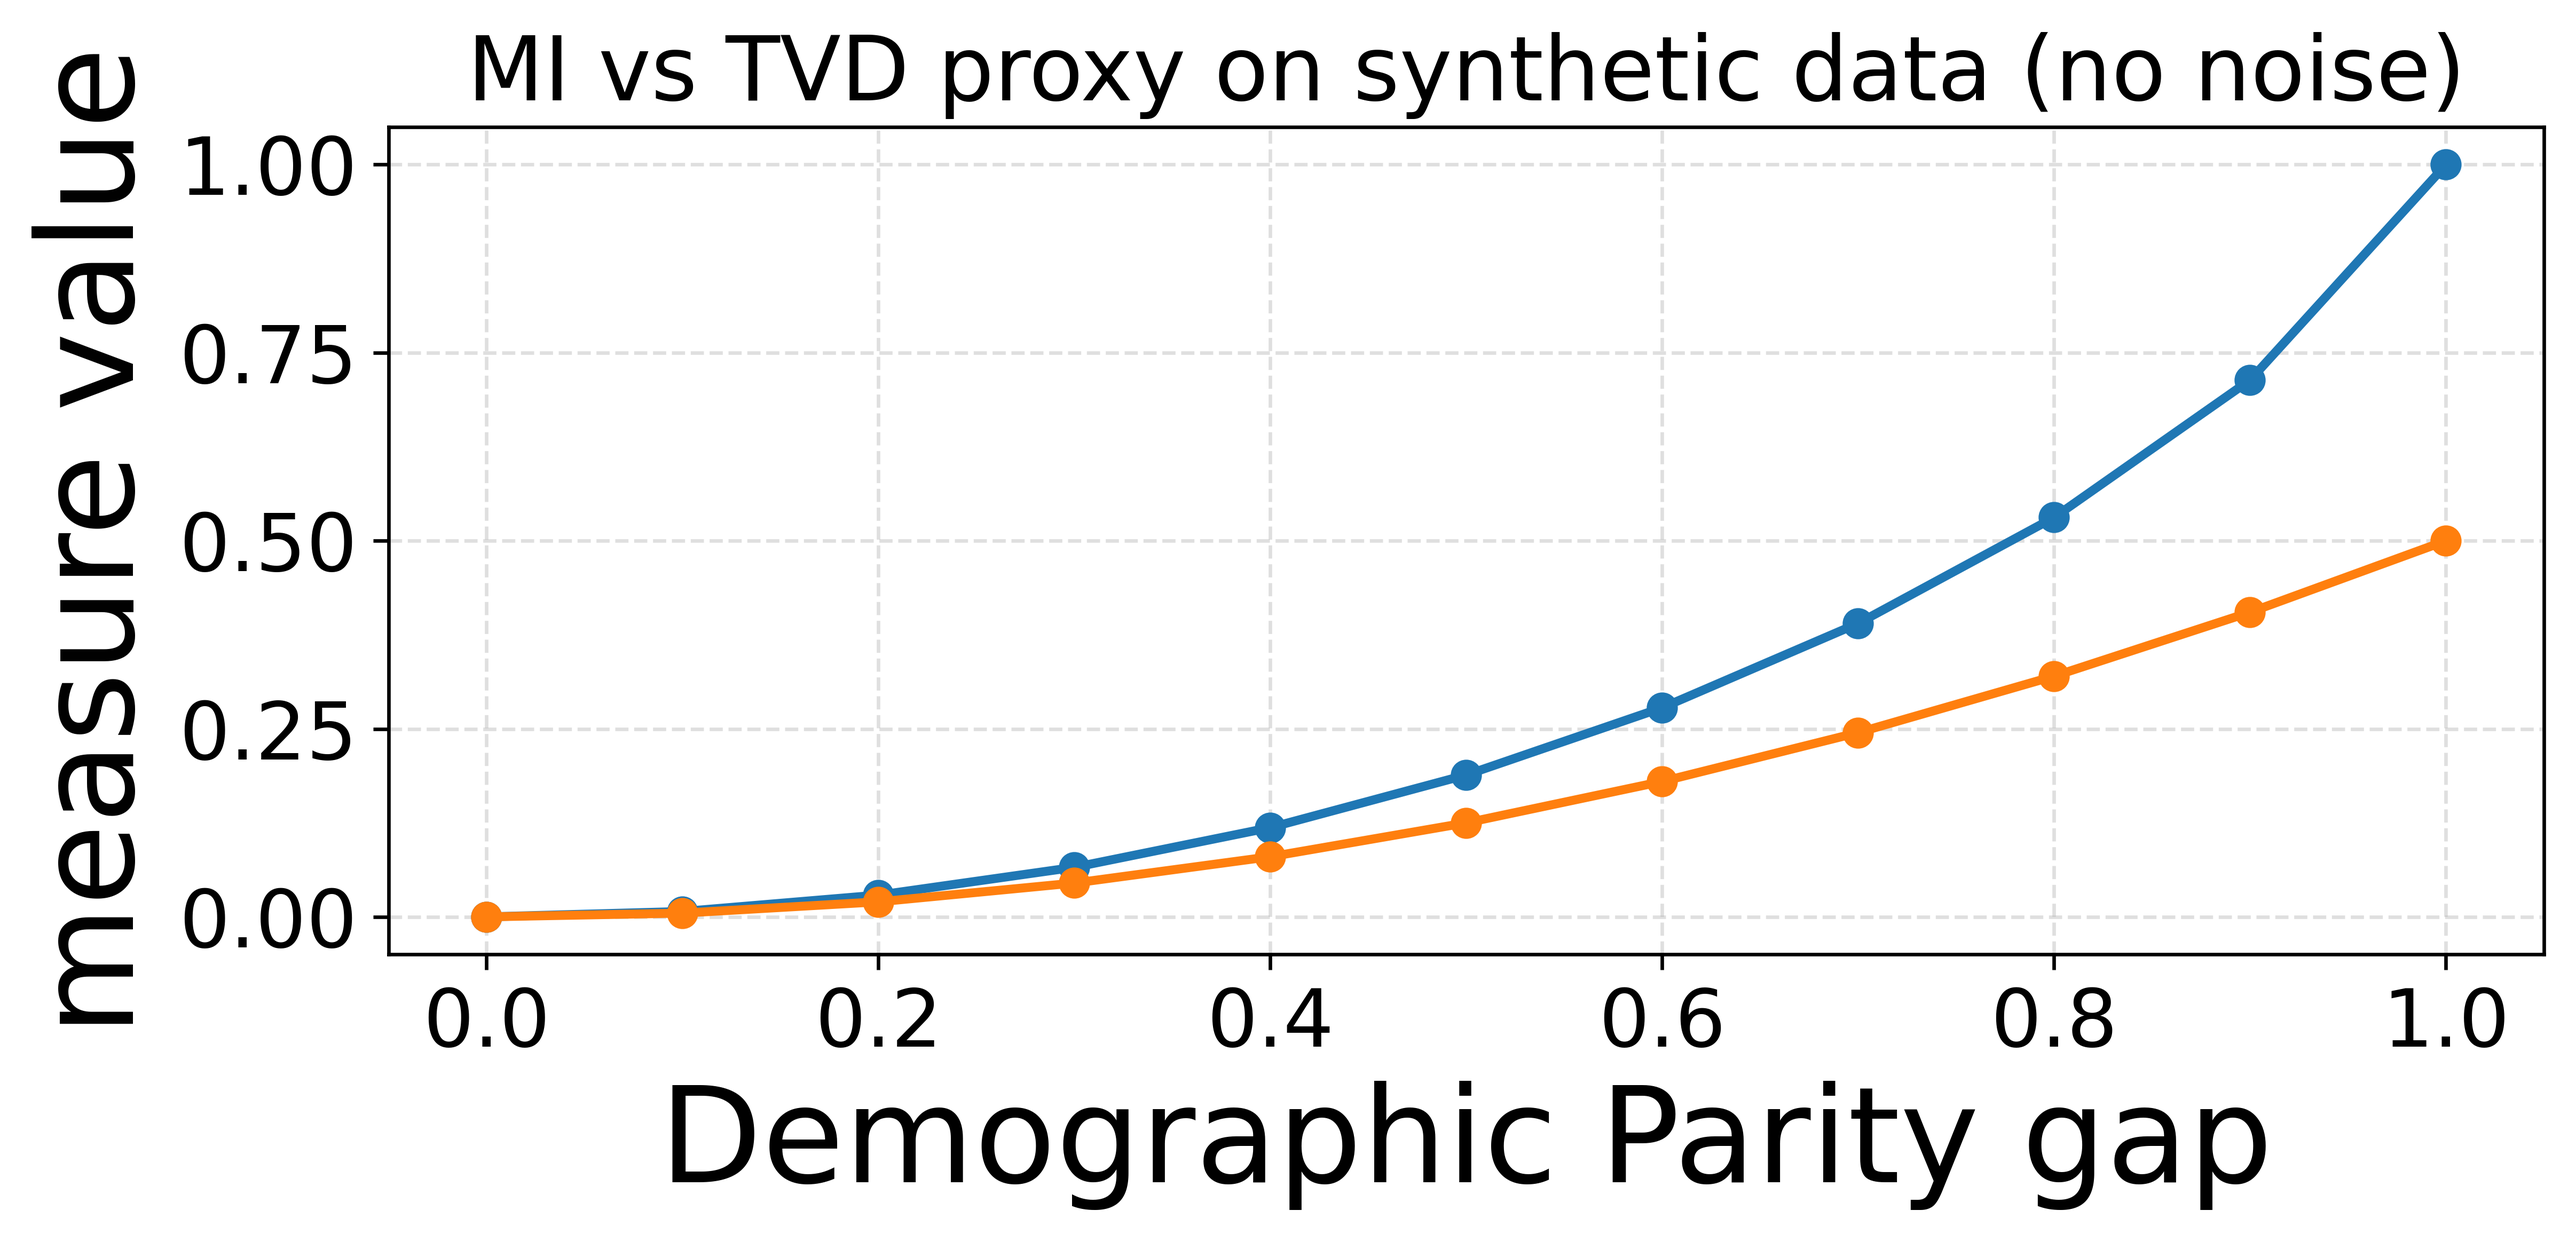
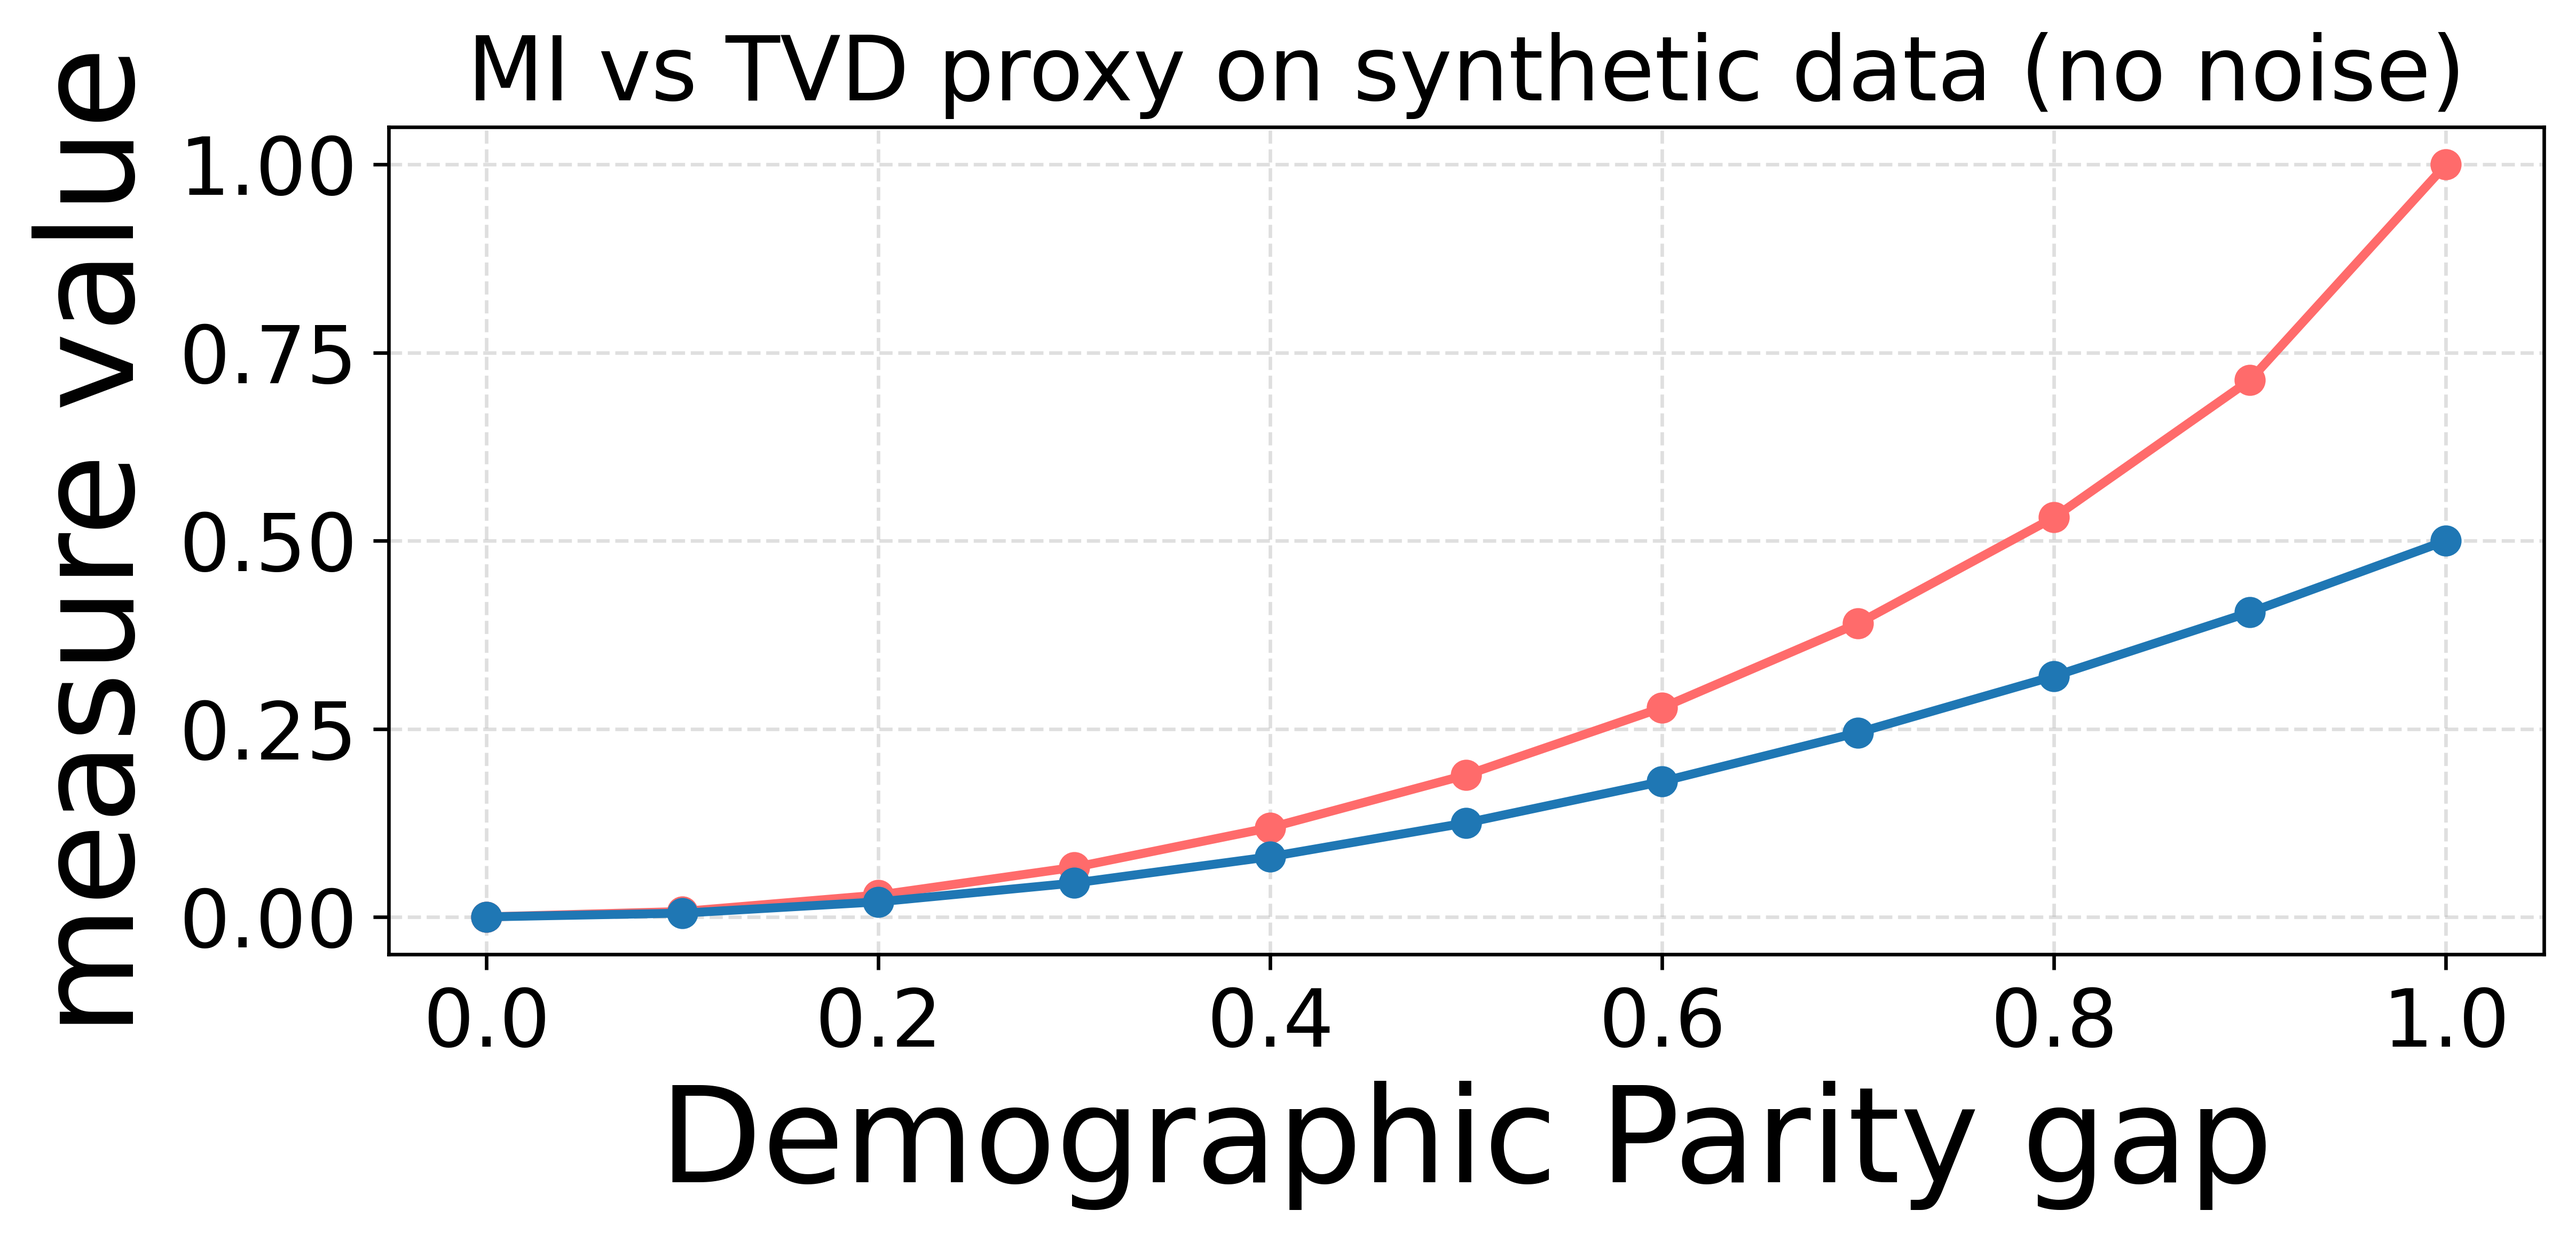
Updated plots and legends

diff --git a/main.py b/main.py
@@ -1328,8 +1328,18 @@ def create_plot_4(
 
 
 ######################################### Experiments ##########################################
+# UNCOMMENT TO RUN LEGENDS:
+
 # plt.rcParams["mathtext.fontset"] = "cm"
 # plt.rcParams["font.family"] = "serif"
+
+# measures = {
+    # r"$\mathcal{U}_{MI}$": MutualInformation,
+    # r"Algorithm 1 ($\mathcal{U}_{MI}^{TVD}$)": ProxyMutualInformationTVD,
+    # "Algorithm 2 ($\mathcal{U}_{R}^{SAT}$)": ProxyRepairMaxSat,
+    # "Algorithm 2 ($\\mathcal{U}_{R}^{SAT}$)\nwith heuristic": ProxyRepairMaxSat,
+    # r"Algorithm 3 ($\mathcal{U}_{TC}$)": TupleContribution
+# }
 
 measures = {
     "Proxy Mutual Information TVD": ProxyMutualInformationTVD,
@@ -1390,16 +1400,23 @@ def _encode_and_clean(data_path, cols):
 
 
 def plot_legend(outfile="plots/legend.png"):
-    """Creating a standalone legend figure for Experiment 1 with the four measures arranged in a single horizontal row,
-    and save it to `outfile`.
-    """
-    colors = plt.rcParams["axes.prop_cycle"].by_key()["color"]
+    """Standalone legend figure with custom colors and proper line break."""
+
+    # Explicit color mapping (MI = light red)
+    custom_colors = [
+        # "#ff6b6b",  # light red (MI)
+        "#1f77b4",  # blue
+        "#ff7f0e",  # orange
+        "#2ca02c",  # green
+    ]
+
     fig, ax = plt.subplots(figsize=(8, 1.6))
     handles = []
+
     for i, label in enumerate(measures.keys()):
         line = MplLine2D(
             [2, 3], [2, 2],
-            color=colors[i % len(colors)],
+            color=custom_colors[i % len(custom_colors)],
             marker="o",
             linestyle="-",
             linewidth=2,
@@ -1407,12 +1424,15 @@ def plot_legend(outfile="plots/legend.png"):
         )
         ax.add_line(line)
         handles.append(line)
+
     ax.set_xlim(0, 1)
     ax.set_ylim(0, 1)
     ax.set_xticks([])
     ax.set_yticks([])
+
     for spine in ax.spines.values():
         spine.set_visible(False)
+
     legend = ax.legend(
         handles,
         measures.keys(),
@@ -1423,6 +1443,7 @@ def plot_legend(outfile="plots/legend.png"):
         borderpad=0.15,
         handletextpad=0.5,
     )
+
     import matplotlib.patheffects as pe
     for text in legend.get_texts():
         text.set_path_effects([pe.withStroke(linewidth=0.2, foreground="black")])
@@ -2972,31 +2993,46 @@ def run_experiment_10(
 
     x = np.asarray(dp_stats["mean"], dtype=float)
 
-    # MI line + shadow
+    # MI line + shadow (LIGHT RED)
     mi_mean = np.asarray(mi_stats["mean"], dtype=float)
-    mi_min  = np.asarray(mi_stats["min"], dtype=float)
-    mi_max  = np.asarray(mi_stats["max"], dtype=float)
+    mi_min = np.asarray(mi_stats["min"], dtype=float)
+    mi_max = np.asarray(mi_stats["max"], dtype=float)
 
-    line_mi, = ax.plot(x, mi_mean, marker="o", linewidth=2, label="MutualInformation (no noise)")
+    line_mi, = ax.plot(
+        x, mi_mean,
+        marker="o",
+        linewidth=2,
+        color="#ff6b6b",  # light red
+        label="MutualInformation (no noise)"
+    )
     mask_mi = ~np.isnan(x) & ~np.isnan(mi_min) & ~np.isnan(mi_max)
     if mask_mi.any():
         ax.fill_between(
             x[mask_mi], mi_min[mask_mi], mi_max[mask_mi],
-            alpha=0.2, color=line_mi.get_color(), linewidth=0
+            alpha=0.2,
+            color="#ff6b6b",
+            linewidth=0
         )
 
-    # TVD proxy line + shadow
+    # TVD proxy line + shadow (BLUE)
     tvd_mean = np.asarray(tvd_stats["mean"], dtype=float)
-    tvd_min  = np.asarray(tvd_stats["min"], dtype=float)
-    tvd_max  = np.asarray(tvd_stats["max"], dtype=float)
+    tvd_min = np.asarray(tvd_stats["min"], dtype=float)
+    tvd_max = np.asarray(tvd_stats["max"], dtype=float)
 
-    line_tvd, = ax.plot(x, tvd_mean, marker="o", linewidth=2,
-                        label="ProxyMutualInformationTVD (no noise)")
+    line_tvd, = ax.plot(
+        x, tvd_mean,
+        marker="o",
+        linewidth=2,
+        color="#1f77b4",  # blue
+        label="ProxyMutualInformationTVD (no noise)"
+    )
     mask_tvd = ~np.isnan(x) & ~np.isnan(tvd_min) & ~np.isnan(tvd_max)
     if mask_tvd.any():
         ax.fill_between(
             x[mask_tvd], tvd_min[mask_tvd], tvd_max[mask_tvd],
-            alpha=0.2, color=line_tvd.get_color(), linewidth=0
+            alpha=0.2,
+            color="#1f77b4",
+            linewidth=0
         )
 
     ax.set_xlabel("Demographic Parity gap")
@@ -3011,19 +3047,19 @@ def run_experiment_10(
 
 
 if __name__ == "__main__":
-    create_plot_0()
-    create_plot_1()
-    create_plot_2()
-    create_plot_3()
-    create_plot_4()
+    # create_plot_0()
+    # create_plot_1()
+    # create_plot_2()
+    # create_plot_3()
+    # create_plot_4()
     plot_legend()
-    run_experiment_1()
-    run_experiment_2()
-    run_experiment_3()
-    run_experiment_4()
-    run_experiment_5()
-    run_experiment_6()
-    run_experiment_7()
-    run_experiment_8()
-    run_experiment_9()
-    run_experiment_10()
+    # run_experiment_1()
+    # run_experiment_2()
+    # run_experiment_3()
+    # run_experiment_4()
+    # run_experiment_5()
+    # run_experiment_6()
+    # run_experiment_7()
+    # run_experiment_8()
+    # run_experiment_9()
+    # run_experiment_10()
